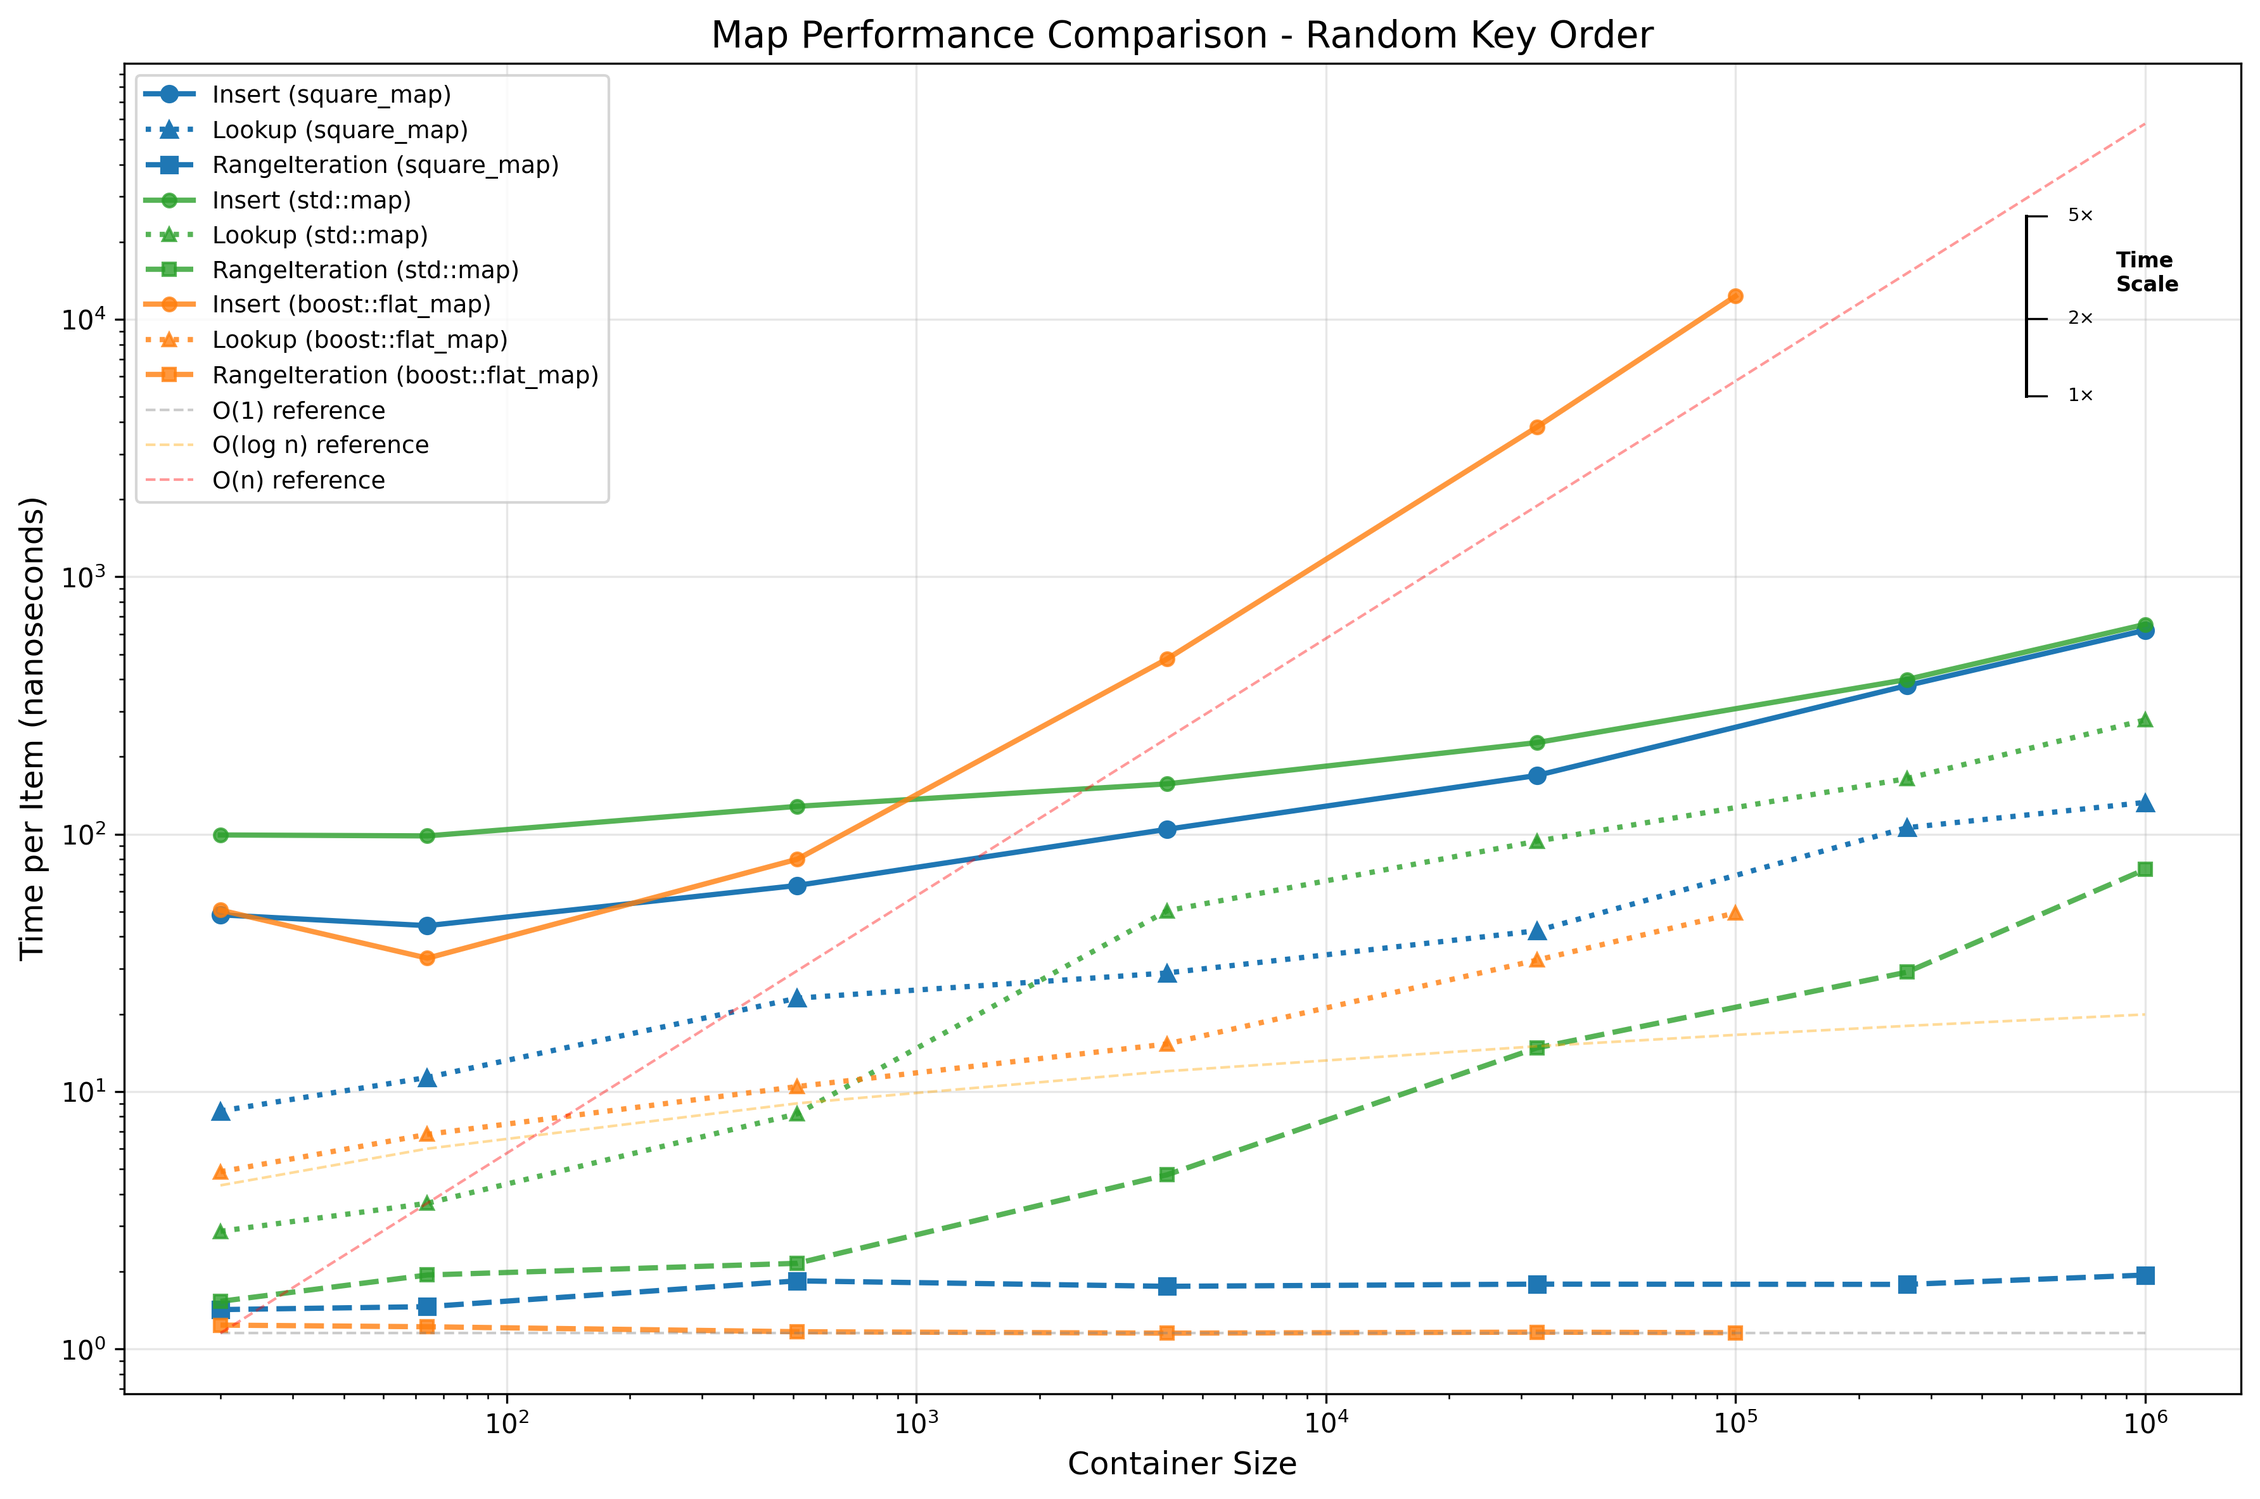
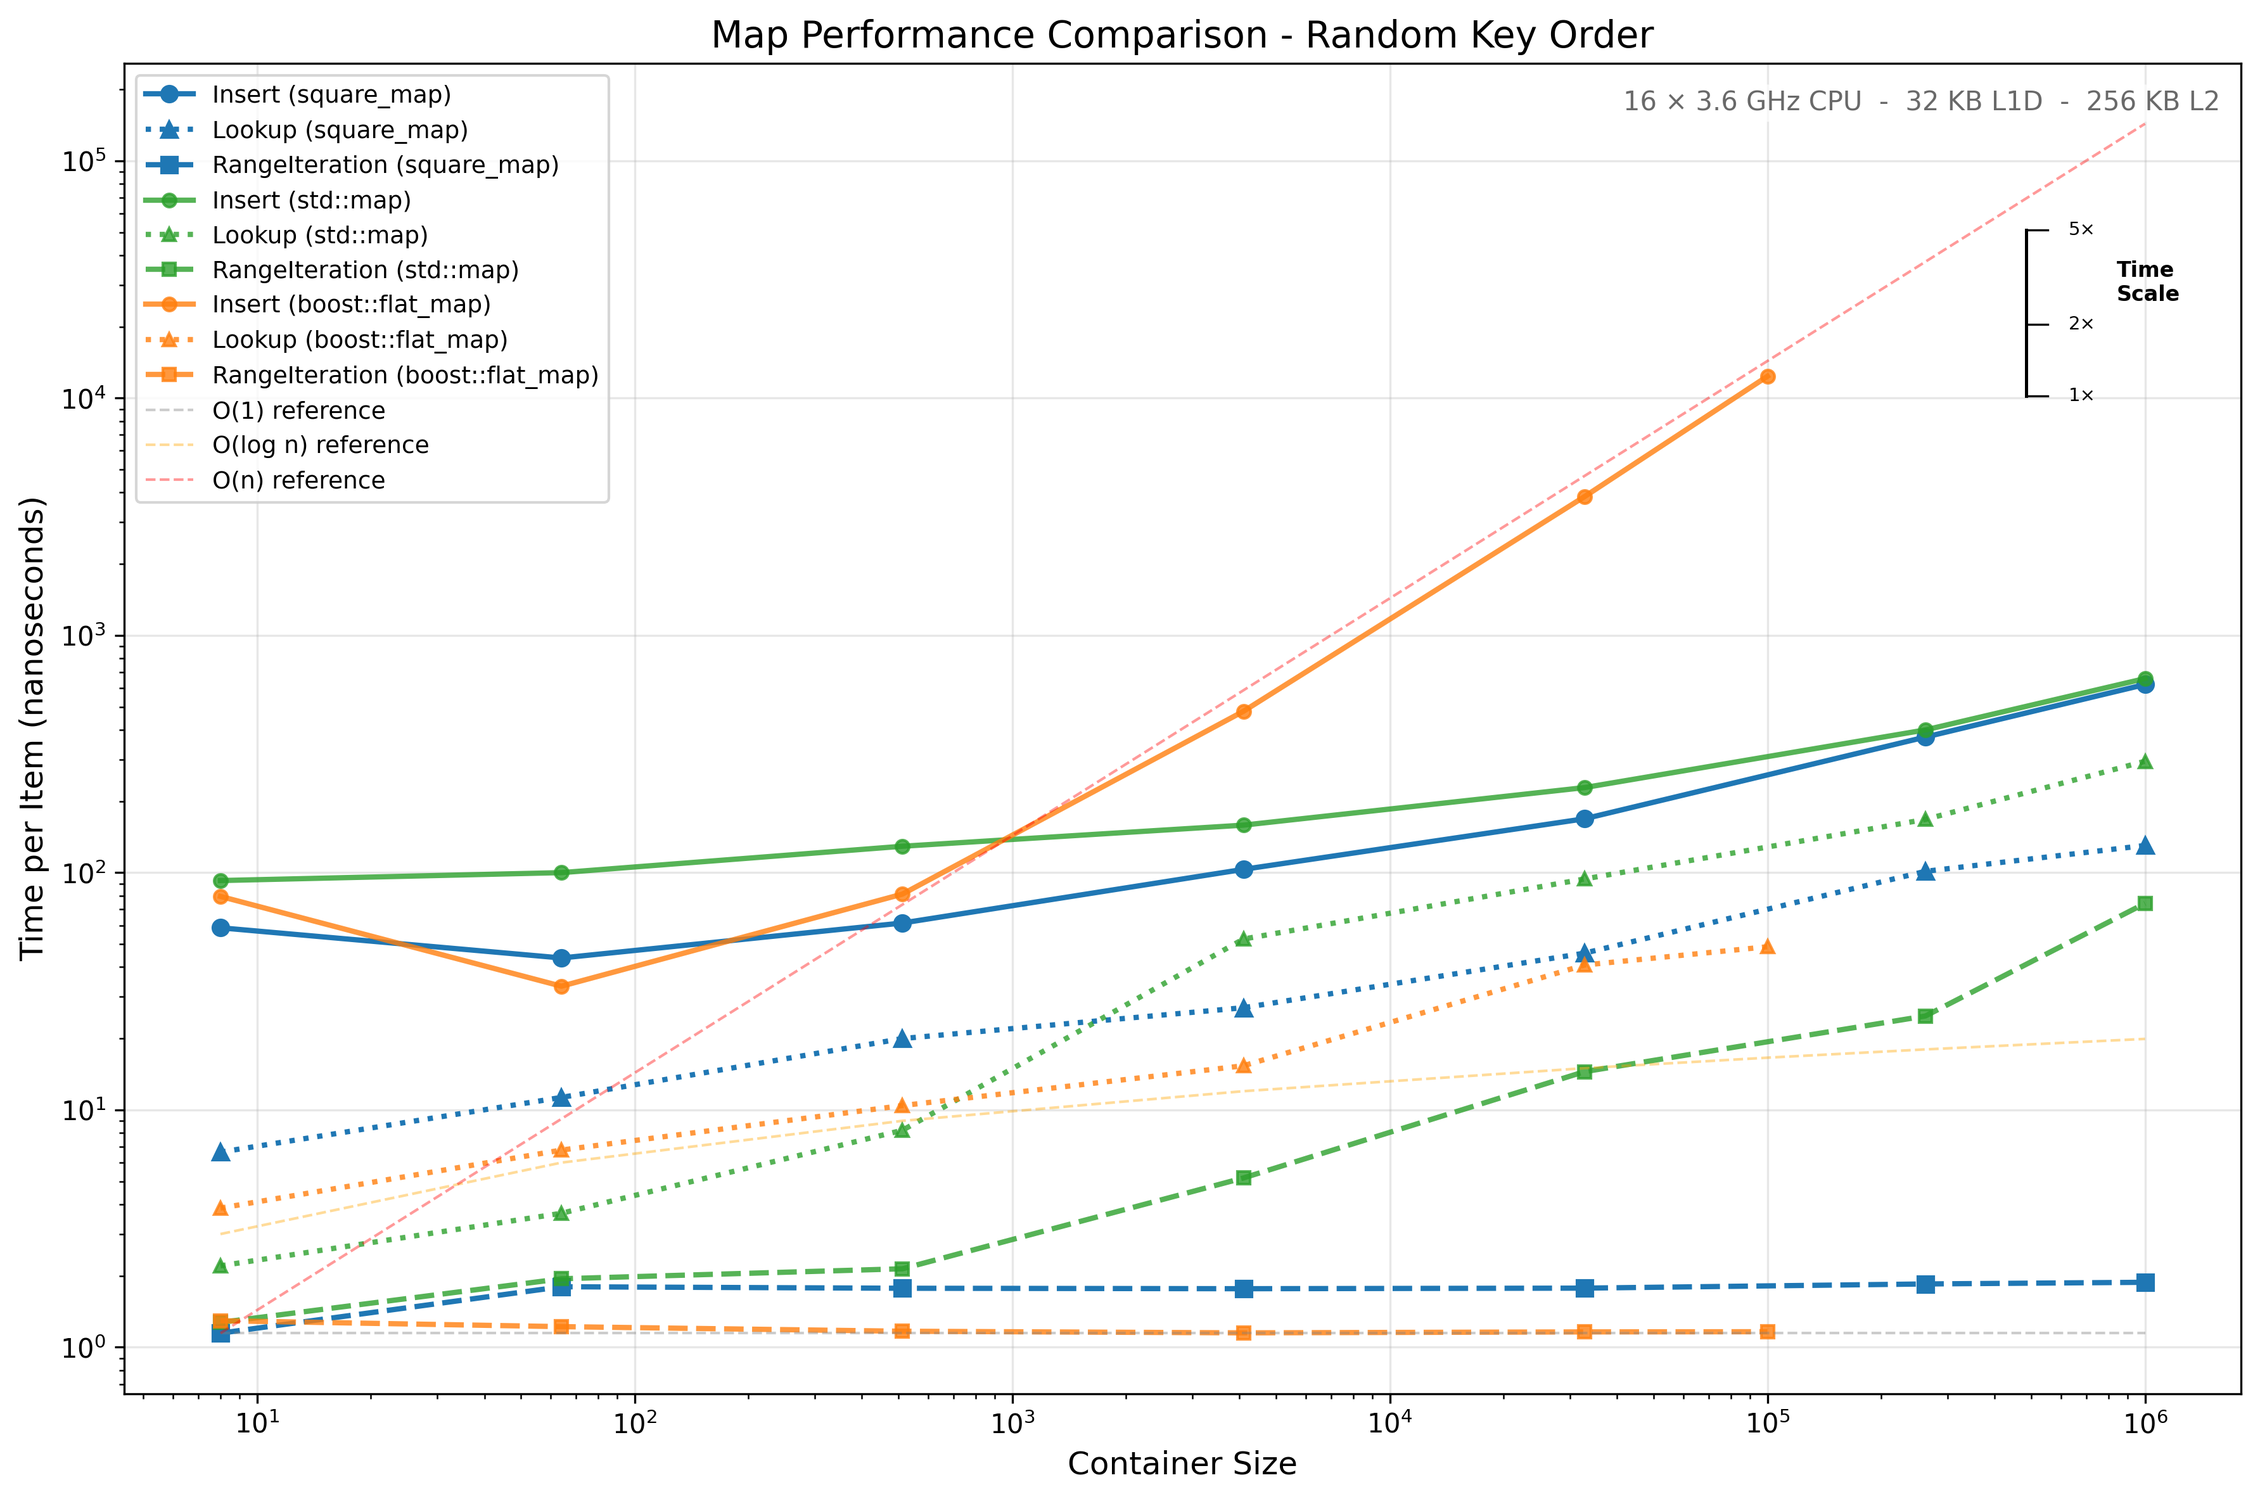
Add cache info to plots

diff --git a/plot_benchmarks.py b/plot_benchmarks.py
@@ -90,7 +90,7 @@ def parse_benchmark_name(name):
     return None, None, None, None
 
 def load_benchmark_data(json_file):
-    """Load and parse benchmark JSON data."""
+    """Load and parse Google Benchmark JSON results."""
     with open(json_file, 'r') as f:
         data = json.load(f)
 
@@ -116,9 +116,55 @@ def load_benchmark_data(json_file):
                 'items_per_second': benchmark.get('items_per_second', 0)
             })
 
-    return pd.DataFrame(results)
+    # Also return the context information for system details
+    context = data.get('context', {})
+    return pd.DataFrame(results), context
 
-def create_plots(df, output_dir='plots'):
+def format_system_info(context):
+    """Format system information for use as plot subtitle."""
+    if not context:
+        return ""
+    
+    # Extract CPU information
+    num_cpus = context.get('num_cpus', 0)
+    mhz_per_cpu = context.get('mhz_per_cpu', 0)
+    cpu_scaling_enabled = context.get('cpu_scaling_enabled', False)
+    
+    # Format CPU speed
+    if cpu_scaling_enabled or mhz_per_cpu < 1000 or mhz_per_cpu > 10000:
+        cpu_speed_str = "???"
+    else:
+        ghz = mhz_per_cpu / 1000.0
+        cpu_speed_str = f"{ghz:.1f} GHz"
+    
+    # Extract cache information
+    caches = context.get('caches', [])
+    l1d_size = None
+    l2_size = None
+    
+    for cache in caches:
+        if cache.get('type') == 'Data' and cache.get('level') == 1:
+            l1d_size = cache.get('size')
+        elif cache.get('type') == 'Unified' and cache.get('level') == 2:
+            l2_size = cache.get('size')
+    
+    # Format cache sizes
+    def format_cache_size(size_bytes):
+        if size_bytes is None:
+            return "?"
+        if size_bytes < 1024:
+            return f"{size_bytes} B"
+        elif size_bytes < 1024 * 1024:
+            return f"{size_bytes // 1024} KB"
+        else:
+            return f"{size_bytes // (1024 * 1024)} MB"
+    
+    l1d_str = format_cache_size(l1d_size)
+    l2_str = format_cache_size(l2_size)
+    
+    return f"{num_cpus} × {cpu_speed_str} CPU  -  {l1d_str} L1D  -  {l2_str} L2"
+
+def create_plots(df, context, output_dir='plots'):
     """Create log-log plots for benchmark results."""
     Path(output_dir).mkdir(exist_ok=True)
 
@@ -180,6 +226,11 @@ def create_plots(df, output_dir='plots'):
         plt.xlabel('Container Size', fontsize=12)
         plt.ylabel('Time per Item (nanoseconds)', fontsize=12)
         plt.title(f'Performance Comparison - {generator}', fontsize=14)
+        # Add system info inside the axes, at the top
+        system_info = format_system_info(context)
+        if system_info:
+            plt.gca().text(0.99, 0.98, system_info, fontsize=10, color='dimgray',
+                          ha='right', va='top', transform=plt.gca().transAxes, bbox=dict(facecolor='white', alpha=0.7, edgecolor='none', boxstyle='round,pad=0.2'))
         plt.legend(fontsize=10)
         plt.grid(True, alpha=0.3)
 
@@ -214,7 +265,7 @@ def create_plots(df, output_dir='plots'):
         print(f"Saved plot: {filename}")
         plt.close()
 
-def create_comparison_plot(df, output_dir='plots'):
+def create_comparison_plot(df, context, output_dir='plots'):
     """Create a comprehensive comparison plot."""
     # Filter out rows where time_per_item_ns is None
     df = df[df['time_per_item_ns'].notna()]
@@ -246,56 +297,51 @@ def create_comparison_plot(df, output_dir='plots'):
 
     for i, operation in enumerate(operations):
         for j, generator in enumerate(generators):
-            plt.subplot(len(operations), len(generators), i * len(generators) + j + 1)
-
+            ax = plt.subplot(len(operations), len(generators), i * len(generators) + j + 1)
             op_data = df[(df['operation'] == operation) & (df['generator'] == generator)]
-
             if len(op_data) > 0:
                 map_types = op_data['map_type'].unique()
-
                 for map_type in map_types:
                     map_data = op_data[op_data['map_type'] == map_type].sort_values('size')
                     if len(map_data) > 0:
                         color = map_type_colors.get(map_type, '#8c564b')
                         style = operation_styles.get(operation, '-')
-                        plt.loglog(map_data['size'], map_data['time_per_item_ns'],
+                        ax.loglog(map_data['size'], map_data['time_per_item_ns'],
                                   marker='o', label=map_type, color=color, linestyle=style,
                                   linewidth=1.5, markersize=4)
-
                 # Add reference lines for common complexities
-                if len(op_data) > 0:
-                    sizes = np.array(sorted(op_data['size'].unique()))
-                    min_time = op_data['time_per_item_ns'].min()
-
-                    # O(1) reference line
-                    plt.loglog(sizes, [min_time] * len(sizes), '--',
-                              alpha=0.3, color='gray', linewidth=0.8)
-
-                    # O(log n) reference line
-                    log_ref = np.log2(sizes)
-                    plt.loglog(sizes, log_ref, '--',
-                              alpha=0.3, color='orange', linewidth=0.8)
-
-                    # O(n) reference line
-                    linear_ref = min_time * sizes / sizes[0]
-                    plt.loglog(sizes, linear_ref, '--',
-                              alpha=0.3, color='red', linewidth=0.8)
-
-                # Add scale ruler to first subplot only (to avoid clutter)
-                if i == 0 and j == 0:
-                    add_log_scale_ruler(plt.gca(), 'lower right')
-
-                plt.xlabel('Size' if i == len(operations) - 1 else '')
-                plt.ylabel('Time per Item (ns)' if j == 0 else '')
-                plt.title(f'{operation} - {generator}', fontsize=10)
-                if i == 0 and j == 0:
-                    plt.legend(fontsize=8, bbox_to_anchor=(1.05, 1), loc='upper left')
-                plt.grid(True, alpha=0.3)
+                sizes = np.array(sorted(op_data['size'].unique()))
+                min_time = op_data['time_per_item_ns'].min()
+                ax.loglog(sizes, [min_time] * len(sizes), '--',
+                          alpha=0.3, color='gray', linewidth=0.8)
+                log_ref = np.log2(sizes)
+                ax.loglog(sizes, log_ref, '--',
+                          alpha=0.3, color='orange', linewidth=0.8)
+                linear_ref = min_time * sizes / sizes[0]
+                ax.loglog(sizes, linear_ref, '--',
+                          alpha=0.3, color='red', linewidth=0.8)
+            # Add scale ruler to first subplot only (to avoid clutter)
+            if i == 0 and j == 0:
+                add_log_scale_ruler(ax, 'lower right')
+            ax.set_xlabel('Size' if i == len(operations) - 1 else '')
+            ax.set_ylabel('Time per Item (ns)' if j == 0 else '')
+            ax.set_title(f'{operation} - {generator}', fontsize=10)
+            if i == 0 and j == 0:
+                ax.legend(fontsize=8, bbox_to_anchor=(1.05, 1), loc='upper left')
+            ax.grid(True, alpha=0.3)
 
     plt.tight_layout()
+    # Add system info inside each subplot, at the top
+    system_info = format_system_info(context)
+    if system_info:
+        for ax in plt.gcf().get_axes():
+            ax.text(0.99, 0.98, system_info, fontsize=10, color='dimgray',
+                    ha='right', va='top', transform=ax.transAxes, bbox=dict(facecolor='white', alpha=0.7, edgecolor='none', boxstyle='round,pad=0.2'))
+    plt.gcf().suptitle('Benchmark Comparison', fontsize=14)
     filename = f"{output_dir}/benchmark_comparison.png"
     plt.savefig(filename, dpi=300, bbox_inches='tight')
     print(f"Saved comprehensive comparison: {filename}")
+    plt.close()
     plt.close()
 
 def main():
@@ -310,7 +356,7 @@ def main():
         sys.exit(1)
 
     print(f"Loading benchmark data from {json_file}...")
-    df = load_benchmark_data(json_file)
+    df, context = load_benchmark_data(json_file)
 
     if df.empty:
         print("No valid benchmark data found!")
@@ -322,8 +368,8 @@ def main():
     print(f"Generators: {', '.join(df['generator'].unique())}")
 
     print("Creating plots...")
-    create_plots(df)
-    create_comparison_plot(df)
+    create_plots(df, context)
+    create_comparison_plot(df, context)
 
     print("Done! Check the 'plots' directory for generated graphs.")
 

diff --git a/quickplot.py b/quickplot.py
@@ -1,3 +1,35 @@
+def format_system_info(context):
+    """Format system information for use as plot annotation."""
+    if not context:
+        return ""
+    num_cpus = context.get('num_cpus', 0)
+    mhz_per_cpu = context.get('mhz_per_cpu', 0)
+    cpu_scaling_enabled = context.get('cpu_scaling_enabled', False)
+    if cpu_scaling_enabled or mhz_per_cpu < 1000 or mhz_per_cpu > 10000:
+        cpu_speed_str = "???"
+    else:
+        ghz = mhz_per_cpu / 1000.0
+        cpu_speed_str = f"{ghz:.1f} GHz"
+    caches = context.get('caches', [])
+    l1d_size = None
+    l2_size = None
+    for cache in caches:
+        if cache.get('type') == 'Data' and cache.get('level') == 1:
+            l1d_size = cache.get('size')
+        elif cache.get('type') == 'Unified' and cache.get('level') == 2:
+            l2_size = cache.get('size')
+    def format_cache_size(size_bytes):
+        if size_bytes is None:
+            return "?"
+        if size_bytes < 1024:
+            return f"{size_bytes} B"
+        elif size_bytes < 1024 * 1024:
+            return f"{size_bytes // 1024} KB"
+        else:
+            return f"{size_bytes // (1024 * 1024)} MB"
+    l1d_str = format_cache_size(l1d_size)
+    l2_str = format_cache_size(l2_size)
+    return f"{num_cpus} × {cpu_speed_str} CPU  -  {l1d_str} L1D  -  {l2_str} L2"
 #!/usr/bin/env python3
 """
 Script to create a quick plot from square_map benchmark results with reference implementations.
@@ -193,6 +225,10 @@ def create_quickplot(square_map_df, reference_df=None, output_file='plots/quickp
     plt.xlabel('Container Size', fontsize=12)
     plt.ylabel('Time per Item (nanoseconds)', fontsize=12)
     plt.title('Map Performance Comparison - Random Key Order', fontsize=14)
+    # Add system info annotation inside the axes at the top
+    if hasattr(create_quickplot, 'system_info') and create_quickplot.system_info:
+        plt.gca().text(0.99, 0.98, create_quickplot.system_info, fontsize=10, color='dimgray',
+                      ha='right', va='top', transform=plt.gca().transAxes, bbox=dict(facecolor='white', alpha=0.7, edgecolor='none', boxstyle='round,pad=0.2'))
     plt.legend(fontsize=9, loc='upper left')
     plt.grid(True, alpha=0.3)
     
@@ -246,16 +282,19 @@ def main():
         print(f"Error: File {square_map_file} not found")
         sys.exit(1)
     
+    # Load context from the main JSON file
+    with open(square_map_file, 'r') as f:
+        data = json.load(f)
+    context = data.get('context', {})
     square_map_df = load_benchmark_data(square_map_file)
-    
     if square_map_df.empty:
         print("No valid benchmark data found in square_map results!")
         sys.exit(1)
-    
     reference_df = None
     if reference_file and Path(reference_file).exists():
         reference_df = load_benchmark_data(reference_file)
-    
+    # Attach system info to the plotting function for access
+    create_quickplot.system_info = format_system_info(context)
     if create_quickplot(square_map_df, reference_df):
         print("plots/quickplot.png")
     else:

diff --git a/README.md b/README.md
@@ -184,13 +184,23 @@ accessed is not realistic.
 ## Asymptotic Complexity
 Comparing actual timing results with the reference plots using log-log scale, we can derive the
 following:
-* Random flat map inserts have $O(n)$ complexity both in theory and in practice. This is bad.
-* Random flat map lookups have $O(\log n)$ complexity until about 32K elements and then gets much
-  more expensive. This seems to be an effect of exceeding L2 cache size, where memory latencies
-  start to dominate compute. For larger sizes the flat map and square map get closer, as the
-  overhead of the square map with two sorted ranges compares to a flat map is mostly computational.
+* Random flat map inserts have $O(n)$ complexity both in theory and in practice. This is unusable.
+  However, while the square map has worse performance according to theory with uniform memory access
+  costs, it turns out that for this test scenario the square map is uniformly better. Even at the
+  point where the square map and `std::map` converge, the derivatives are close. So, while
+  `std::map` may still outperform in many cases in the millions to billions territory, 
+* Random flat map lookups have $O(\log n)$ complexity until about 4K elements (32 KB memory in the
+  map) and then gets much more expensive. This seems to be an effect of exceeding L1 cache
+  size, where memory latencies start to dominate compute. For larger sizes the flat map and square
+  map get closer, as the lookups in the right range are much cheaper than those in the larger left
+  range. For the `std::map` random lookup starts missing the L1 cache at just 512 elements, as each
+  element is a dynamically allocated tree node that may be on a different cache line. For 512
+  elements at a 64-byte cache line each, this also adds up to 32 KB of L1. Still, all three maps
+  stay within a relatively narrow band of up to 4x or so of time per operation.
 * Both flat map and square map have $O(1)$ complexity for range iteration, remarkably constant even
-  for large $n$.
+  for large $n$. However, range iteration on a `std::map` becomes close to random lookup performance
+  of the square map for higher $n$. Again, the flat map is omitted here, as it takes too long to
+  insert the data. It's still surprising how bad the `std::map` gets compared to the flat
 * Algorithic complexity of point lookups seems similar for all three data structures. For smallish
   maps below 1K elements, `std::map` is best, while above 10K elements the square map and flat map
   take over due to memory locality, but there's never more than a 4x difference regardless of $n$. 
